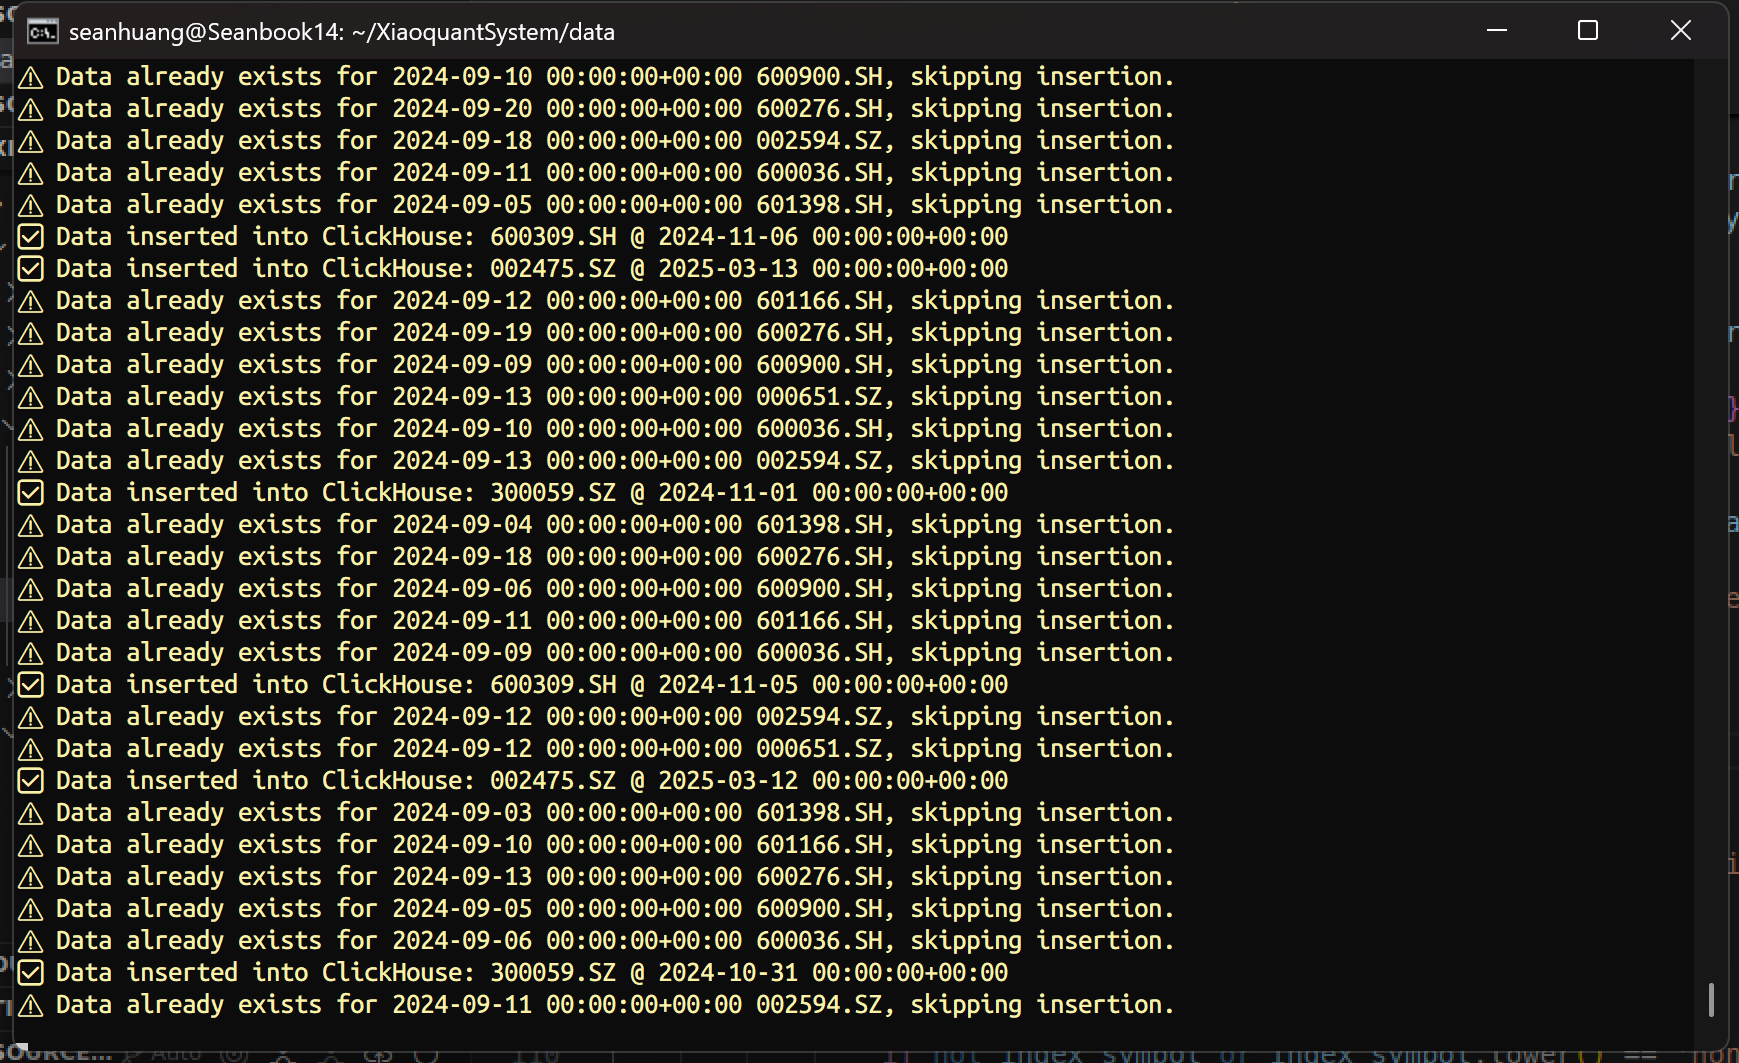
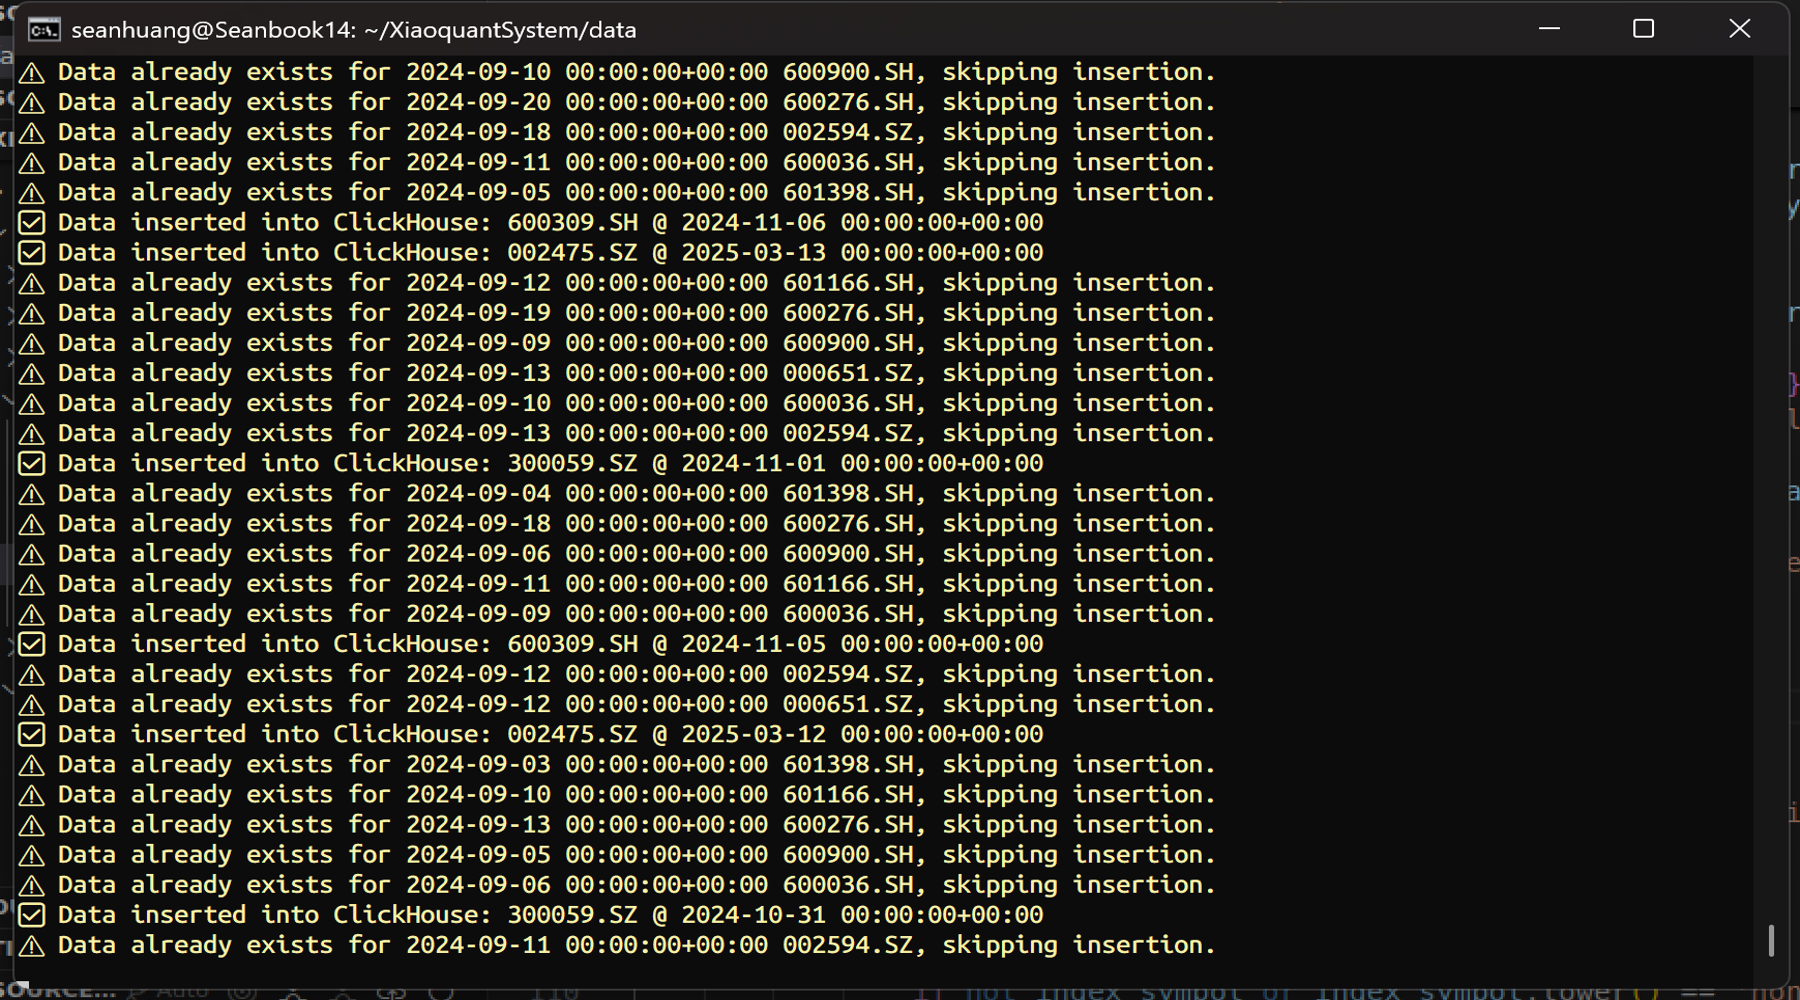
update

diff --git a/docs/images/test.py b/docs/images/test.py
@@ -1,0 +1,22 @@
+from PIL import Image
+import os
+
+# 当前目录
+img_dir = os.path.dirname(__file__)
+target_size = (1800, 1000)
+
+for filename in os.listdir(img_dir):
+    if filename.lower().endswith(('.png', '.jpg', '.jpeg')):
+        filepath = os.path.join(img_dir, filename)
+        try:
+            with Image.open(filepath) as img:
+                img = img.convert("RGB")  # 保证统一色彩通道
+                img_resized = img.resize(target_size)
+
+                # 保存为 .png，保持同名但扩展名统一
+                new_name = os.path.splitext(filename)[0] + ".png"
+                new_path = os.path.join(img_dir, new_name)
+                img_resized.save(new_path, format="PNG")
+                print(f"✅ Resized: {filename} -> {new_name}")
+        except Exception as e:
+            print(f"❌ Failed to process {filename}: {e}")
